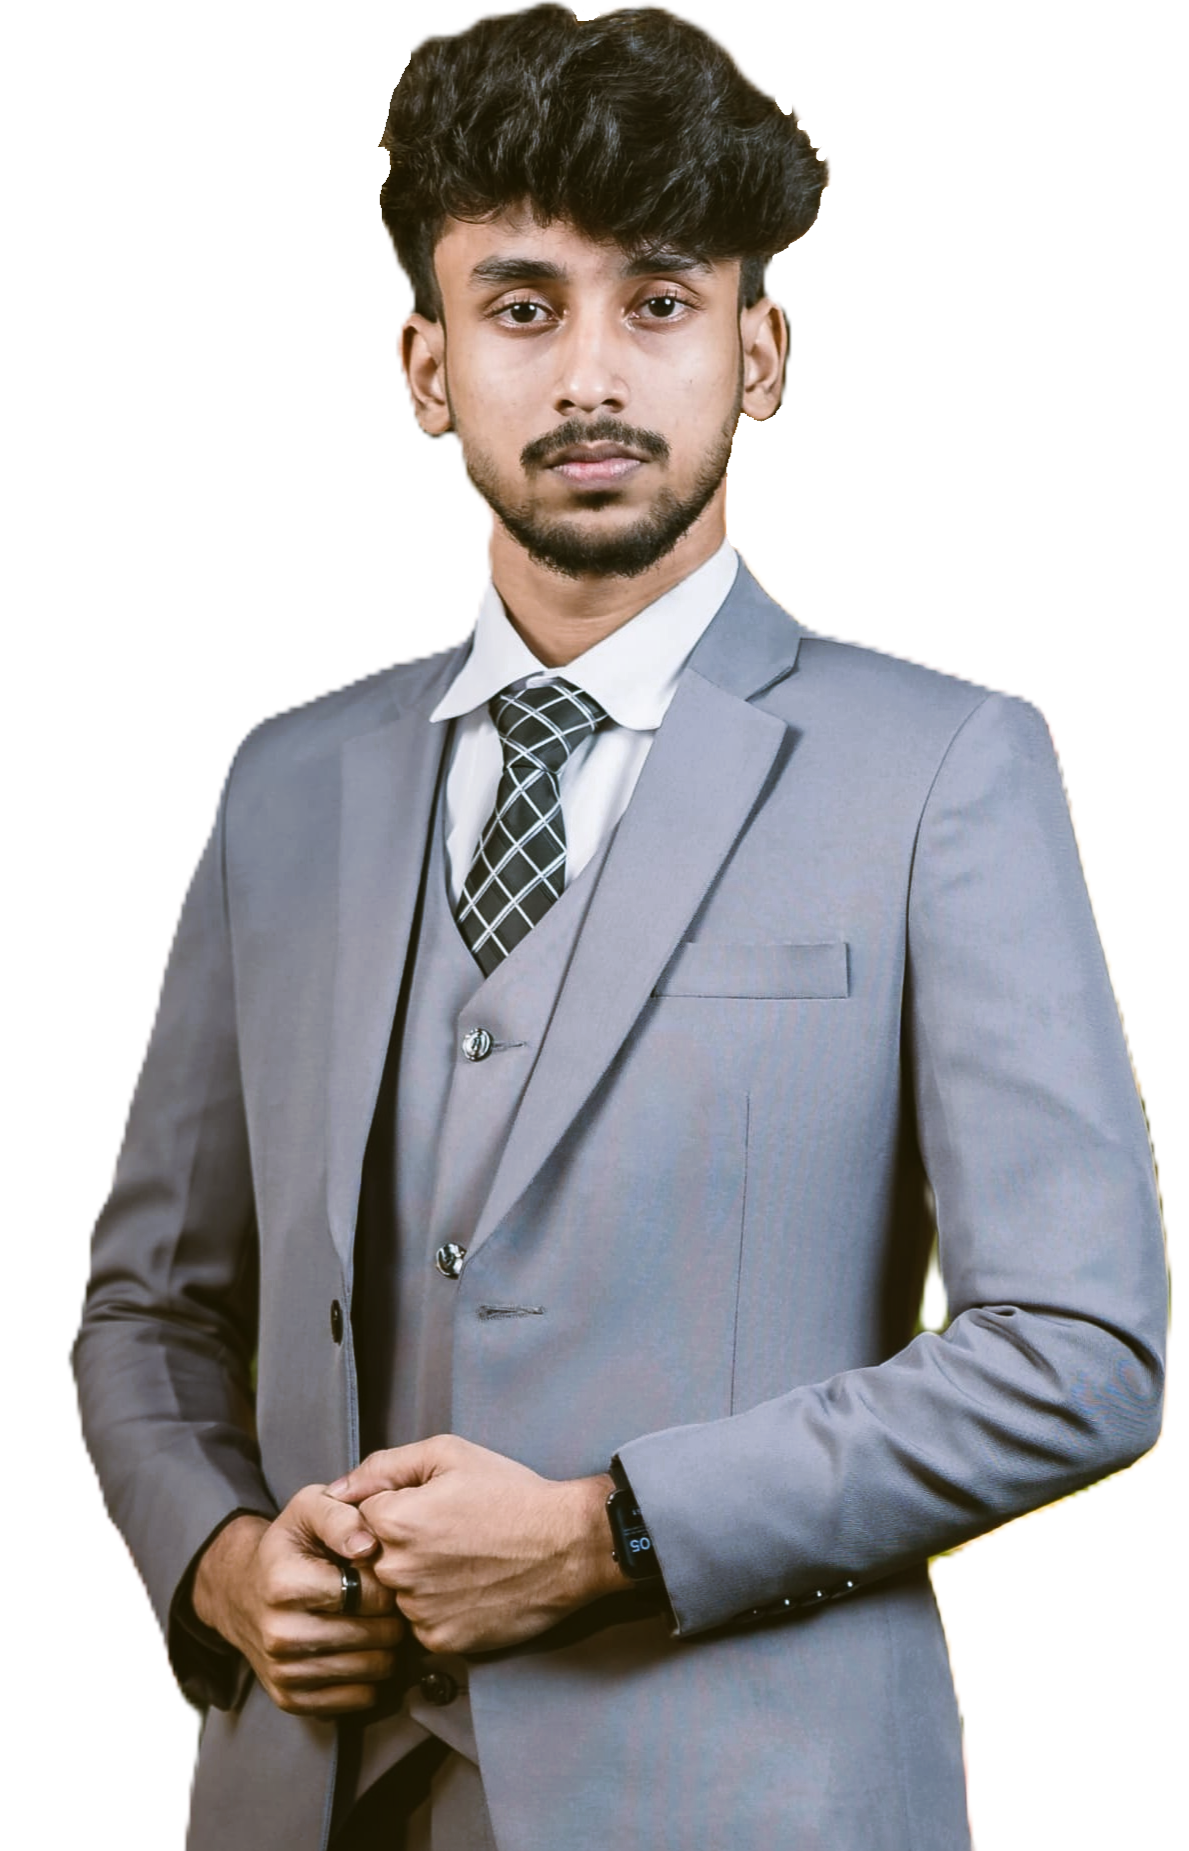
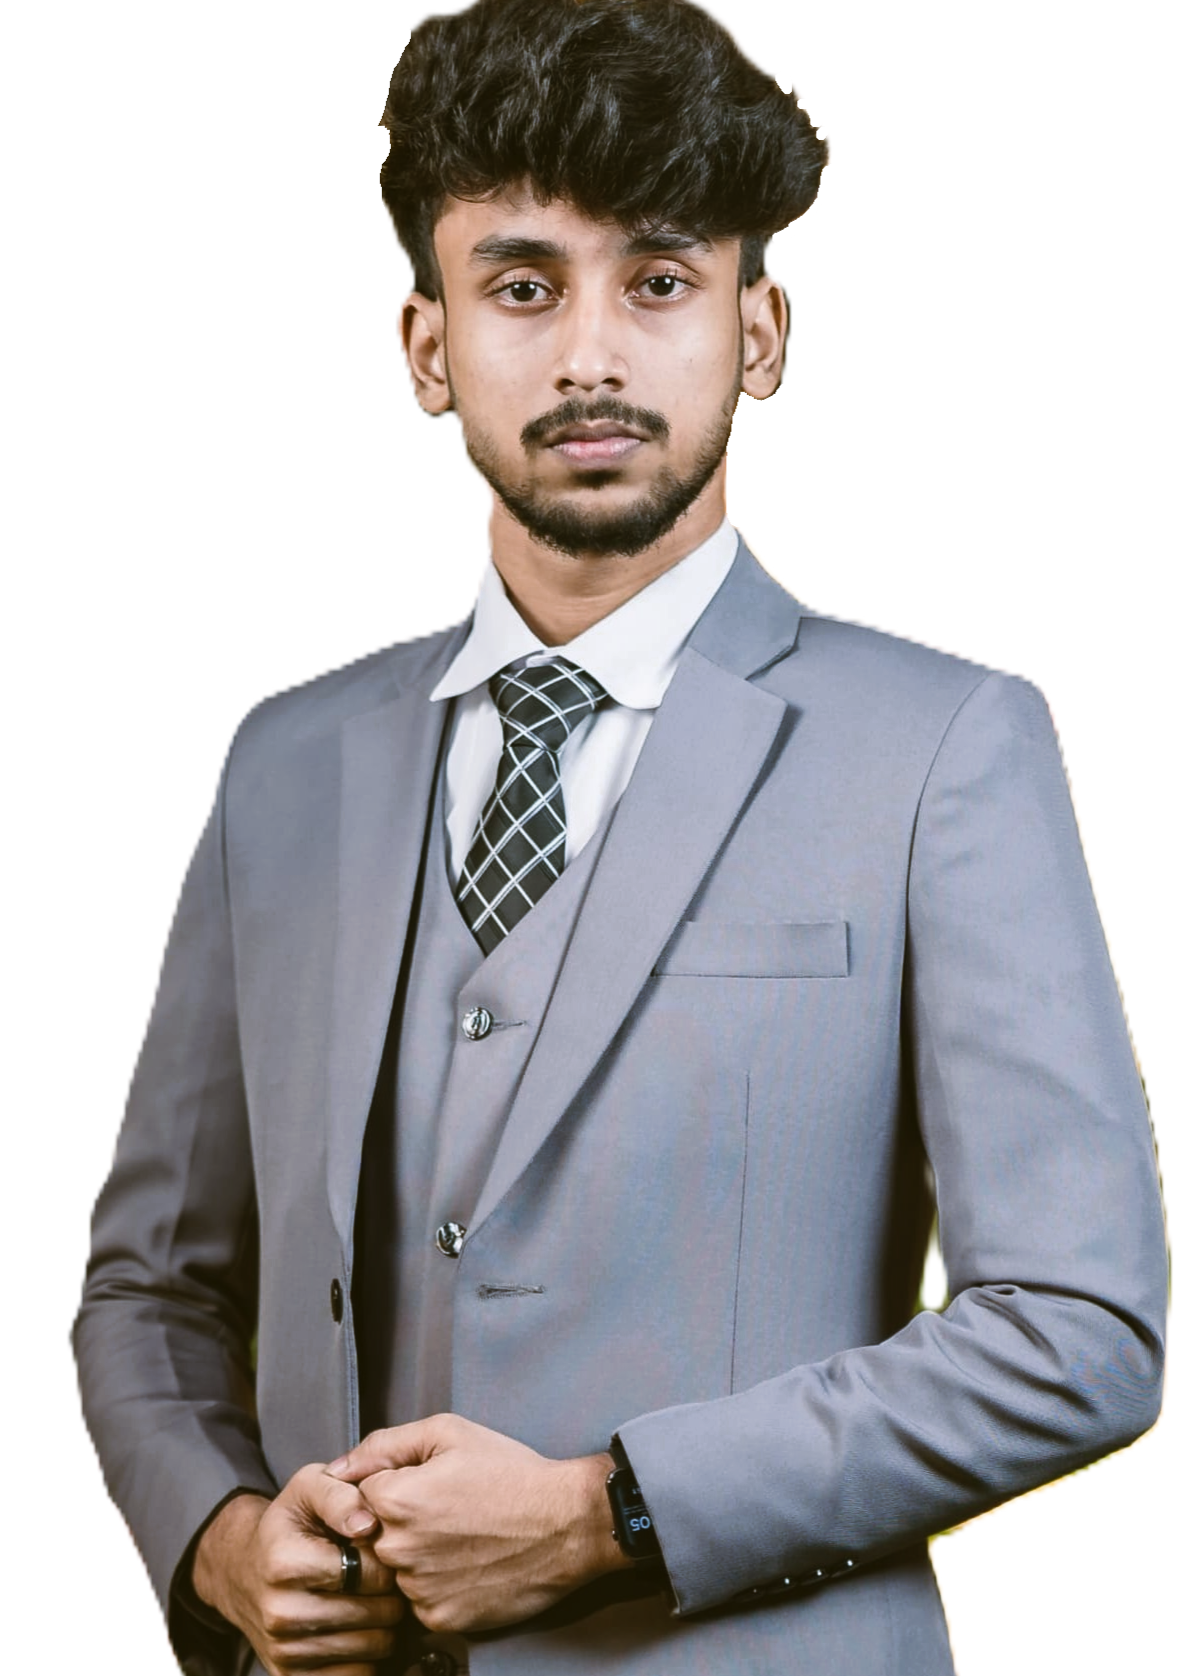
Added bio about me

diff --git a/index.html b/index.html
@@ -10,7 +10,7 @@
     <link rel="stylesheet" href="styles/portfolio.css">
 </head>
 <body class="open-sans-normal">
-    <header class="header">
+    <header class="header secondary-bg">
         <nav>
             <h3 class="nav-title">Taw<span class="text-primary">h</span>id</h3>
             <ul>
@@ -32,7 +32,38 @@
              <img class="banner-pfp" src="Media/tawhid.png" alt="">
         </div>
     </header>
-    <main></main>
+    <main>
+        <section class="about secondary-bg">
+            <h3 class="section-title">
+                About Me
+            </h3>
+            <p class="section-desciption">Hi, I’m Tawhid Ahmad — a passionate web developer with a love for clean code and modern design. I specialize in building responsive websites that are fast, user-friendly, and visually appealing.
+
+With experience in HTML, CSS, JavaScript, Tailwind CSS, and frameworks like React, I create websites that not only look good but also perform well. Whether it's a personal blog, business website, or a custom web app, I enjoy bringing ideas to life on the web.
+
+When I’m not coding, I’m probably exploring new tech trends, learning new tools, or helping others solve web development problems. My goal is simple: build things that work beautifully.
+
+Let’s build something amazing together!</p>
+<div class="about-items">
+    <div class="about-item">
+        <p class="item-title">Name</p>
+        <p class="item-description">Tawhid Ahmad</p>
+    </div>
+    <div class="about-item">
+        <p class="item-title">Email</p>
+        <p class="item-description">abd@def.com</p>
+    </div>
+    <div class="about-item">
+        <p class="item-title">Date Of Birth</p>
+        <p class="item-description">Apr 25, 2007</p>
+    </div>
+    <div class="about-item">
+        <p class="item-title">From</p>
+        <p class="item-description">Mirpur,Dhaka</p>
+    </div>
+</div>
+        </section>
+    </main>
     <footer></footer>
 </body>
 </html>

diff --git a/styles/portfolio.css b/styles/portfolio.css
@@ -9,6 +9,9 @@
 }
 
 /* shared style */
+.secondary-bg{
+    background-color:#FFF8F3;
+}
 .text-primary{
     color: #FD6E0A;
 }
@@ -24,6 +27,16 @@
     padding: 18px 35px;
     border-radius: 5px;
     border: none;
+}
+.section-title{
+    font-size: 35px;
+    font-weight: bold;
+    color: #181818;
+} 
+
+.section-description{
+    font-size: 18px;
+    color: #757575;
 }
 
 /* Header */
@@ -65,7 +78,7 @@ nav li a{
 .banner{
     display: flex;
     justify-content: space-between;
-    margin: 0 35px 0 230px;
+    margin: 50px 35px 50px 230px;
 }
 
 .banner-content{
@@ -89,5 +102,28 @@ nav li a{
     font-weight: 300;
     color: lightblue;
 }.banner-pfp{
-    width: 580px;
+    width: 450px;
+}
+
+/* main styles */
+.main{
+    max-width: 1140px;
+    margin: 0 auto;
+}
+
+/* about styles */
+
+.about{
+    border-radius:10px;
+    padding: 130px 150px;
+    text-align: center;
+    margin-top: 130px;
+}
+.about-items{
+    display: flex;
+    justify-content: space-around;
+}
+
+.item-description{
+    font-weight: 600;
 }
